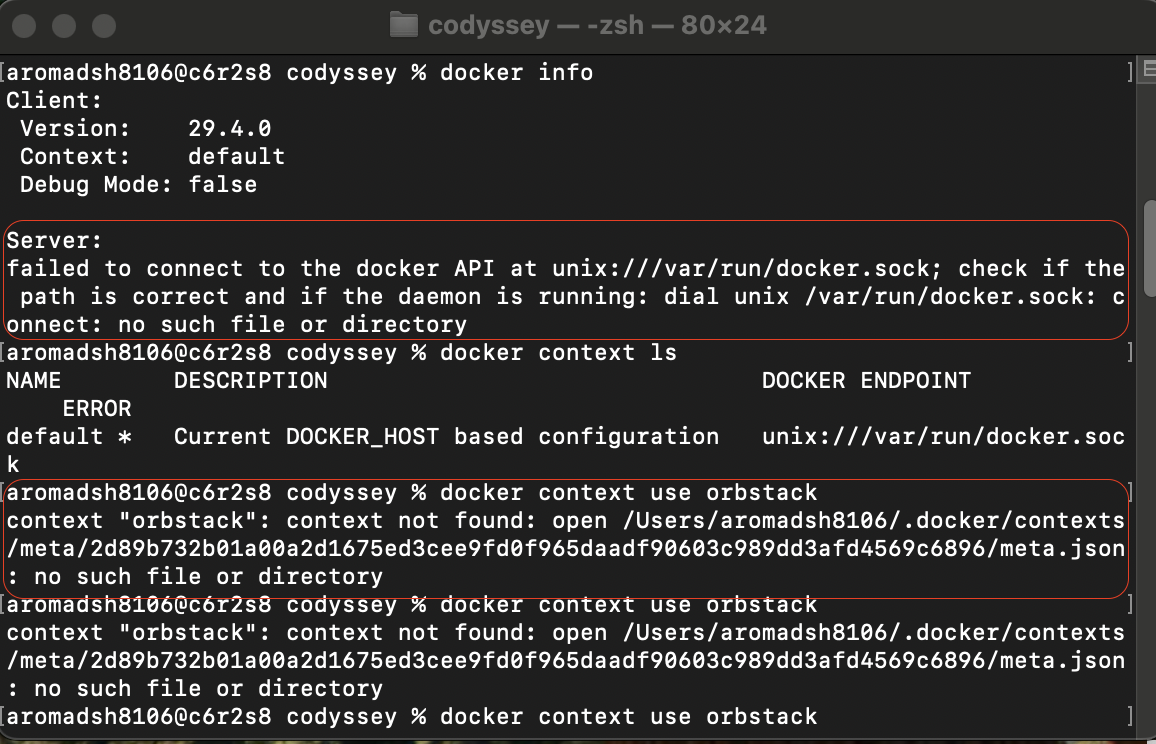
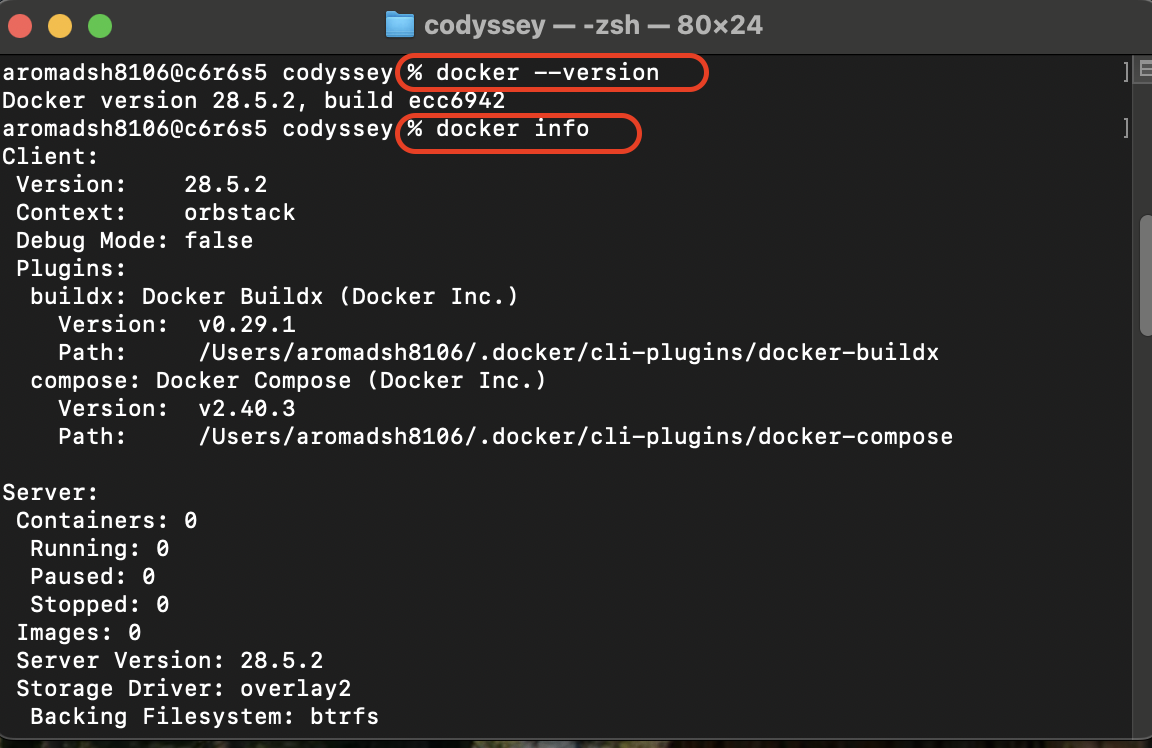
docs: Edited README

Changed region(s): [[0.0, 0.0, 1.0, 1.0], [0.9688, 0.4019, 1.0, 0.4637], [0.9688, 0.2782, 1.0, 0.3091]]

diff --git a/E1-1/mission_d/dock/app/app.py b/E1-1/mission_d/dock/app/app.py
@@ -1,0 +1,1 @@
+print('Hello World')

diff --git a/E1-1/README.md b/E1-1/README.md
@@ -140,11 +140,20 @@ or
 ```
 mkdir dock
 cd dock
-nano Dockerfile
-# Dockerfile에 내용 작성
-docker build -t my-custom-app:v1 .
+# Dockerfile에 내용 작성 
+vim Dockerfile 
+# app.py 실행할 파일 생성
+echo "print('Hello World')" > app.py
+docker build -t dock .
 ```
+
+[result_images](https://github.com/aromadsh/codyssey/blob/master/E1-1/mission_d/created_image.png)
+[result_Dockerfile](https://github.com/aromadsh/codyssey/blob/master/E1-1/mission_d/vimdetail.png)
+
+---
+
 - 실시간 모니터링 및 디버깅
+
 
 ## 5) 트러블 슈팅 2건 이상 (문제 -> 원인 가설 -> 확인 -> 해결/대안)
 - 도커 버전 확인 중 orbstack 강제 연동
